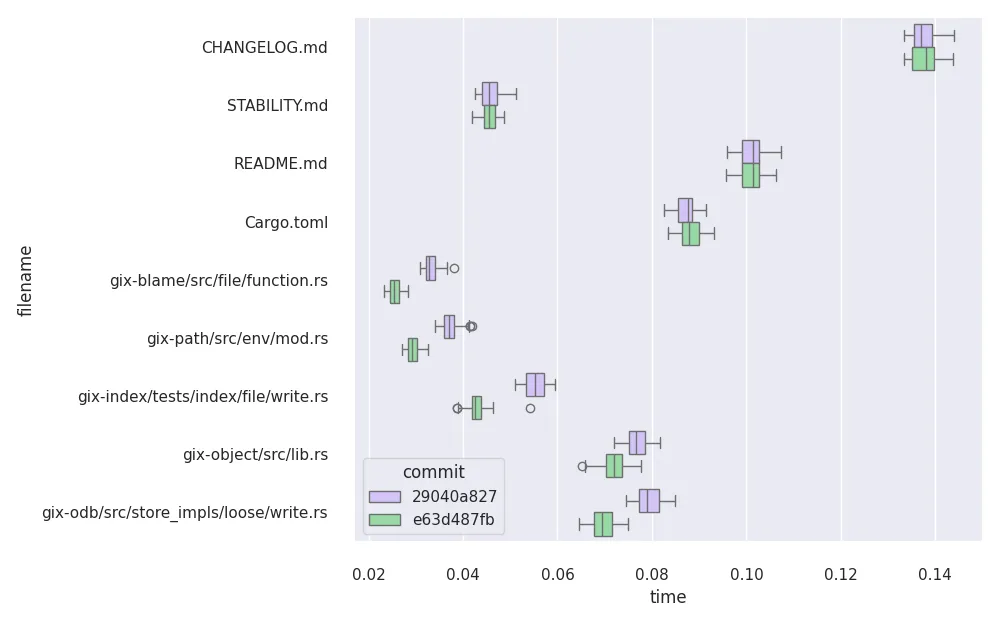
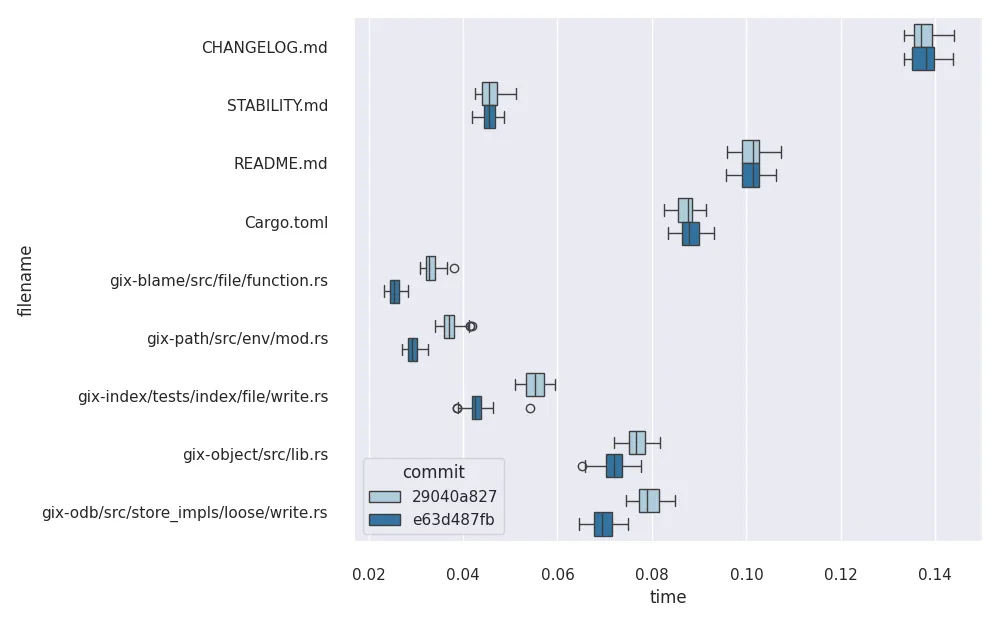
Use shades of blue in plots

diff --git a/_posts/2026-03-14-gix-blame-performance-improved-by-a-change-in-gix-diff.md b/_posts/2026-03-14-gix-blame-performance-improved-by-a-change-in-gix-diff.md
@@ -18,9 +18,12 @@ The comparison was run between [this commit that contained the
 optimization][commit-e63d487fb] and [its parent][commit-29040a827]. The full
 results can also be found as [`json` files in this gist][benchmark-results].
 
+**Update 2026-03-14**: I’ve changed the plots to use shades of blue instead of
+variants of magenta and green.
+
 [pr-2438]: https://github.com/GitoxideLabs/gitoxide/pull/2438
 [run-benchmark]: https://github.com/cruessler/gix-benchmarks/blob/16fb1087c834322464b855e9e5fbd11e2dbe17db/run_benchmark.py
-[plot-benchmark]: https://github.com/cruessler/gix-benchmarks/blob/16fb1087c834322464b855e9e5fbd11e2dbe17db/plot_benchmark.py
+[plot-benchmark]: https://github.com/cruessler/gix-benchmarks/blob/45979d7098d39615ebdfe4ef1d5031ce2864f3de/plot_benchmark.py
 [seaborn]: https://seaborn.pydata.org/index.html
 [benchmark-results]: https://gist.github.com/cruessler/6f0858b862a0442d0904758742d74446
 [commit-e63d487fb]: https://github.com/GitoxideLabs/gitoxide/commit/e63d487fb1b1425a9458fc7400517ad2c0280fd2
